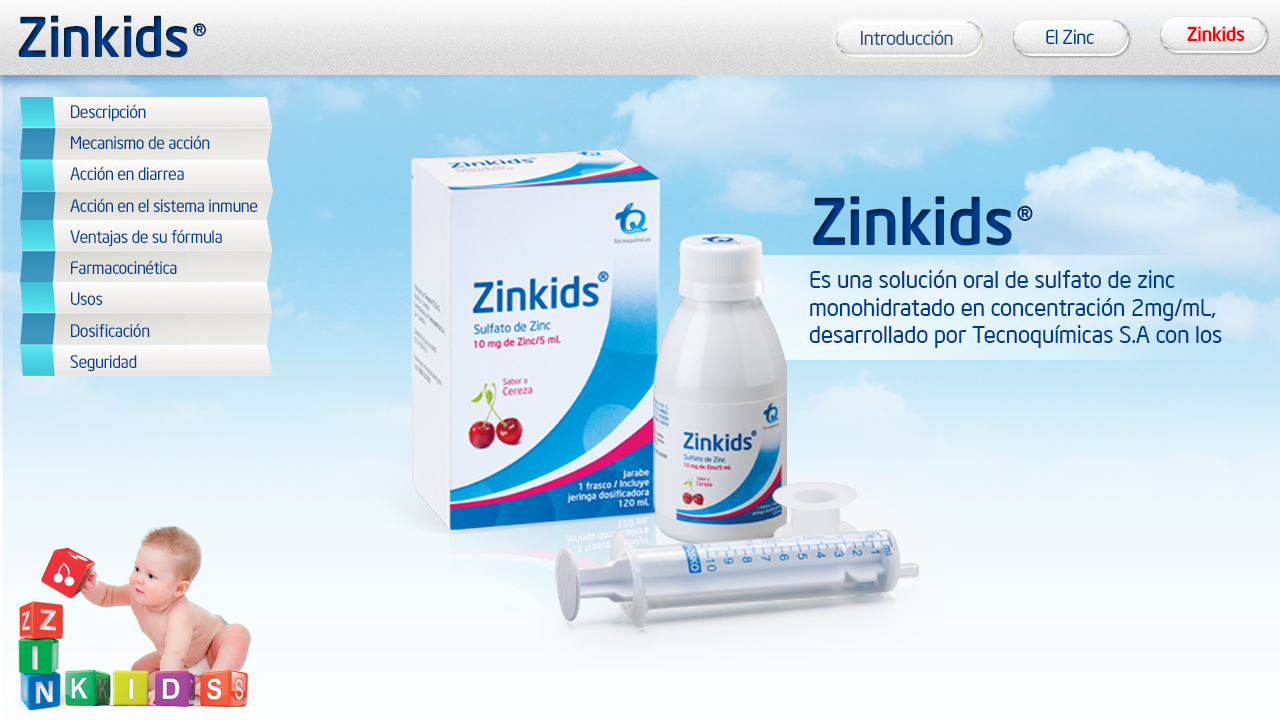
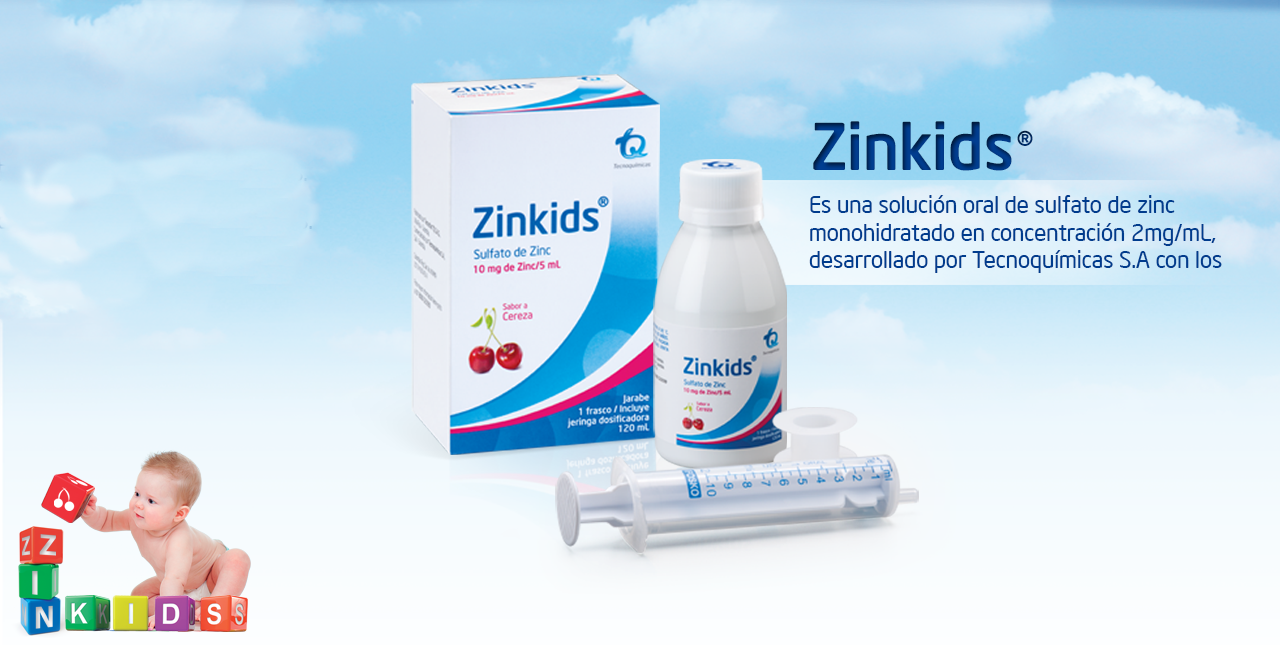
Un monton de maricadas

diff --git a/js/scrollto.js b/js/scrollto.js
@@ -1,0 +1,186 @@
+/*!
+ * jQuery.ScrollTo
+ * Copyright (c) 2007-2014 Ariel Flesler - aflesler<a>gmail<d>com | http://flesler.blogspot.com
+ * Licensed under MIT
+ * http://flesler.blogspot.com/2007/10/jqueryscrollto.html
+ * @projectDescription Easy element scrolling using jQuery.
+ * @author Ariel Flesler
+ * @version 1.4.11
+ */
+
+;(function(plugin) {
+    // AMD Support
+    if (typeof define === 'function' && define.amd) {
+        define(['jquery'], plugin);
+    } else {
+        plugin(jQuery);
+    }
+}(function($) {
+
+	var $scrollTo = $.scrollTo = function( target, duration, settings ) {
+		return $(window).scrollTo( target, duration, settings );
+	};
+
+	$scrollTo.defaults = {
+		axis:'xy',
+		duration: parseFloat($.fn.jquery) >= 1.3 ? 0 : 1,
+		limit:true
+	};
+
+	// Returns the element that needs to be animated to scroll the window.
+	// Kept for backwards compatibility (specially for localScroll & serialScroll)
+	$scrollTo.window = function( scope ) {
+		return $(window)._scrollable();
+	};
+
+	// Hack, hack, hack :)
+	// Returns the real elements to scroll (supports window/iframes, documents and regular nodes)
+	$.fn._scrollable = function() {
+		return this.map(function() {
+			var elem = this,
+				isWin = !elem.nodeName || $.inArray( elem.nodeName.toLowerCase(), ['iframe','#document','html','body'] ) != -1;
+
+				if (!isWin)
+					return elem;
+
+			var doc = (elem.contentWindow || elem).document || elem.ownerDocument || elem;
+
+			return /webkit/i.test(navigator.userAgent) || doc.compatMode == 'BackCompat' ?
+				doc.body :
+				doc.documentElement;
+		});
+	};
+
+	$.fn.scrollTo = function( target, duration, settings ) {
+		if (typeof duration == 'object') {
+			settings = duration;
+			duration = 0;
+		}
+		if (typeof settings == 'function')
+			settings = { onAfter:settings };
+
+		if (target == 'max')
+			target = 9e9;
+
+		settings = $.extend( {}, $scrollTo.defaults, settings );
+		// Speed is still recognized for backwards compatibility
+		duration = duration || settings.duration;
+		// Make sure the settings are given right
+		settings.queue = settings.queue && settings.axis.length > 1;
+
+		if (settings.queue)
+			// Let's keep the overall duration
+			duration /= 2;
+		settings.offset = both( settings.offset );
+		settings.over = both( settings.over );
+
+		return this._scrollable().each(function() {
+			// Null target yields nothing, just like jQuery does
+			if (target == null) return;
+
+			var elem = this,
+				$elem = $(elem),
+				targ = target, toff, attr = {},
+				win = $elem.is('html,body');
+
+			switch (typeof targ) {
+				// A number will pass the regex
+				case 'number':
+				case 'string':
+					if (/^([+-]=?)?\d+(\.\d+)?(px|%)?$/.test(targ)) {
+						targ = both( targ );
+						// We are done
+						break;
+					}
+					// Relative selector, no break!
+					targ = $(targ,this);
+					if (!targ.length) return;
+				case 'object':
+					// DOMElement / jQuery
+					if (targ.is || targ.style)
+						// Get the real position of the target
+						toff = (targ = $(targ)).offset();
+			}
+			
+			var offset = $.isFunction(settings.offset) && settings.offset(elem, targ) || settings.offset;
+			
+			$.each( settings.axis.split(''), function( i, axis ) {
+				var Pos	= axis == 'x' ? 'Left' : 'Top',
+					pos = Pos.toLowerCase(),
+					key = 'scroll' + Pos,
+					old = elem[key],
+					max = $scrollTo.max(elem, axis);
+
+				if (toff) {// jQuery / DOMElement
+					attr[key] = toff[pos] + ( win ? 0 : old - $elem.offset()[pos] );
+
+					// If it's a dom element, reduce the margin
+					if (settings.margin) {
+						attr[key] -= parseInt(targ.css('margin'+Pos)) || 0;
+						attr[key] -= parseInt(targ.css('border'+Pos+'Width')) || 0;
+					}
+
+					attr[key] += offset[pos] || 0;
+
+					if(settings.over[pos])
+						// Scroll to a fraction of its width/height
+						attr[key] += targ[axis=='x'?'width':'height']() * settings.over[pos];
+				} else {
+					var val = targ[pos];
+					// Handle percentage values
+					attr[key] = val.slice && val.slice(-1) == '%' ?
+						parseFloat(val) / 100 * max
+						: val;
+				}
+
+				// Number or 'number'
+				if (settings.limit && /^\d+$/.test(attr[key]))
+					// Check the limits
+					attr[key] = attr[key] <= 0 ? 0 : Math.min( attr[key], max );
+
+				// Queueing axes
+				if (!i && settings.queue) {
+					// Don't waste time animating, if there's no need.
+					if (old != attr[key])
+						// Intermediate animation
+						animate( settings.onAfterFirst );
+					// Don't animate this axis again in the next iteration.
+					delete attr[key];
+				}
+			});
+
+			animate( settings.onAfter );
+
+			function animate( callback ) {
+				$elem.animate( attr, duration, settings.easing, callback && function() {
+					callback.call(this, targ, settings);
+				});
+			};
+
+		}).end();
+	};
+
+	// Max scrolling position, works on quirks mode
+	// It only fails (not too badly) on IE, quirks mode.
+	$scrollTo.max = function( elem, axis ) {
+		var Dim = axis == 'x' ? 'Width' : 'Height',
+			scroll = 'scroll'+Dim;
+
+		if (!$(elem).is('html,body'))
+			return elem[scroll] - $(elem)[Dim.toLowerCase()]();
+
+		var size = 'client' + Dim,
+			html = elem.ownerDocument.documentElement,
+			body = elem.ownerDocument.body;
+
+		return Math.max( html[scroll], body[scroll] )
+			 - Math.min( html[size]  , body[size]   );
+	};
+
+	function both( val ) {
+		return $.isFunction(val) || typeof val == 'object' ? val : { top:val, left:val };
+	};
+
+    // AMD requirement
+    return $scrollTo;
+}));

diff --git a/zinkids.html b/zinkids.html
@@ -9,6 +9,7 @@
 <script src="js/jquery.js"></script>
 <script src="js/js.js"></script>
 <script src="js/jquery.easing.js"></script>
+<script src="js/scrollto.js"></script>
 <title>Zinkids</title>
 </head>
 
@@ -27,16 +28,24 @@
     
   	<div class="row clearfix">
   		<div class="column menu_secundario">
-  			<div class="boton_menu_sec_1"><p>Ventajas de su f&oacute;rmula</p></div>
-  			<div class="boton_menu_sec_2"><p>Farmacocin&eacute;tica</p></div>
-  			<div class="boton_menu_sec_1"><p>Mecanismo de acci&oacute;n</p></div>
-  			<div class="boton_menu_sec_2"><p>Usos</p></div>
-  			<div class="boton_menu_sec_1"><p>Dosificaci&oacute;n</p></div>
-  			<div class="boton_menu_sec_2"><p>Seguridad</p></div>    
+  			<div class="btn_menu boton_menu_sec_1"><p class="navegacion" id="p_0">Ventajas de su f&oacute;rmula</p></div>
+  			<div class="btn_menu boton_menu_sec_2"><p class="navegacion"  id="p_1">Farmacocin&eacute;tica</p></div>
+  			<div class="btn_menu boton_menu_sec_1"><p class="navegacion"  id="p_3">Mecanismo de acci&oacute;n</p></div>
+  			<div class="btn_menu boton_menu_sec_2"><p class="navegacion"  id="p_4">Usos</p></div>
+  			<div class="btn_menu boton_menu_sec_1"><p class="navegacion"  id="p_5">Dosificaci&oacute;n</p></div>
+  			<div class="btn_menu boton_menu_sec_2"><p class="navegacion"  id="p_6">Seguridad</p></div>    
   		</div>  
   		<div class="column contenedor_texto_seccion2">
-            <div class="zinkids_img_intro">
-            	<img src="imgs/bebemutante.png"/>           	
+        <div class="contenedor_grande_texto_seccion2">
+            <div class="zinkids_img_intro" id="p1">
+            	<img src="imgs/zinkids_2.png"/>           	
+            </div>
+            <div class="zinkids_img_intro" id="p2">
+            	<img src="imgs/zinkids_2.png"/>           	
+            </div>
+            <div class="zinkids_img_intro" id="p3">
+            	<img src="imgs/zinkids_2.png"/>           	
+            </div>
             </div>
   		</div>  
   	</div>
@@ -44,3 +53,49 @@
 </div> <!--CIERRA CONTENDOR-->
 </body>
 </html>
+
+<script>
+
+
+$( document ).ready(function() {
+	var anterior=1;
+	var lugar;
+	
+	var distancia=$(window).width();
+	var secciones_intro=3
+	$('#atras_intro').fadeOut(0);
+	
+    /*var ids = [];
+    $(".contenedor_texto_intro").children().each(function(){
+		var tabId = this.id.split("_").pop(); // => "Tabs1"
+		if(tabId!=1){
+			$(this).fadeOut();
+		}
+    });*/
+	
+	
+$( ".navegacion" ).click(function() {
+		lugar = this.id.split("_").pop();
+		ir_a = (lugar*distancia*-1)+'px';
+		alert(ir_a);
+		$('.contenedor_grande_texto_seccion2').animate({'marginLeft': (ir_a)}, 
+			{
+				duration:1000,
+        		easing: 'easeInOutExpo'
+		});	
+	
+});
+
+$(window).resize(function(){
+		
+	reset_distance = $('.contenedor_informacion').parent().width();
+	
+	$('.contenedor_texto_intro').animate({'marginLeft': ((reset_distance/3)*estado_intro)*-1}, 	
+		{
+			duration:0,
+        	easing: 'easeInOutExpo'
+		});	
+});	
+});
+
+</script>

diff --git a/css/css.css b/css/css.css
@@ -64,9 +64,10 @@ html { font-size: 80%; }
 .column.flow-opposite { float: right; }
 .boton_menu_sec_1{width: 100%; background-image: url(../imgs/menu_secundario_fondo1.png); background-repeat:no-repeat; height: 31px;}
 .boton_menu_sec_2{width: 100%; background-image: url(../imgs/menu_secundario_fondo2.png); background-repeat:no-repeat; height: 31px;}
-.column.menu_secundario { width: 362px; padding-top: 20px;}
+.column.menu_secundario { position: absolute;width: 362px; padding-top: 20px; z-index: 100;}
 .column.menu_secundario p {margin: 0; padding: 3px; padding-left: 45px;} 
-.column.contenedor_texto_seccion2{margin: 0; width: 55%; max-width: 680px;}
+.column.contenedor_texto_seccion2{position: absolute; margin: 0; width: 66%; margin-left: 31%; height:800px; overflow: hidden;}
+.contenedor_grande_texto_seccion2{margin: 0; width: 300%; height: 800px;}
 .column.contenedor_texto_seccion2 img{max-width: 100%;}
 .seccion2_contenido{background-image: url(../imgs/seccion2_fondo_contenido1.png); background-position: top left; background-size: 100% auto;}
 .seccion2_contenido li{padding-top: 1%; padding-bottom: 1%;}
@@ -198,4 +199,4 @@ html { font-size: 80%; }
 /*--------------------------- css para zinkids.html--------------------------------------*/
 
 
-.zinkids_img_intro { width: 70%; position: absolute; min-width: 400px;}
+.zinkids_img_intro { width: 33%; min-width: 100px; float: left;}
